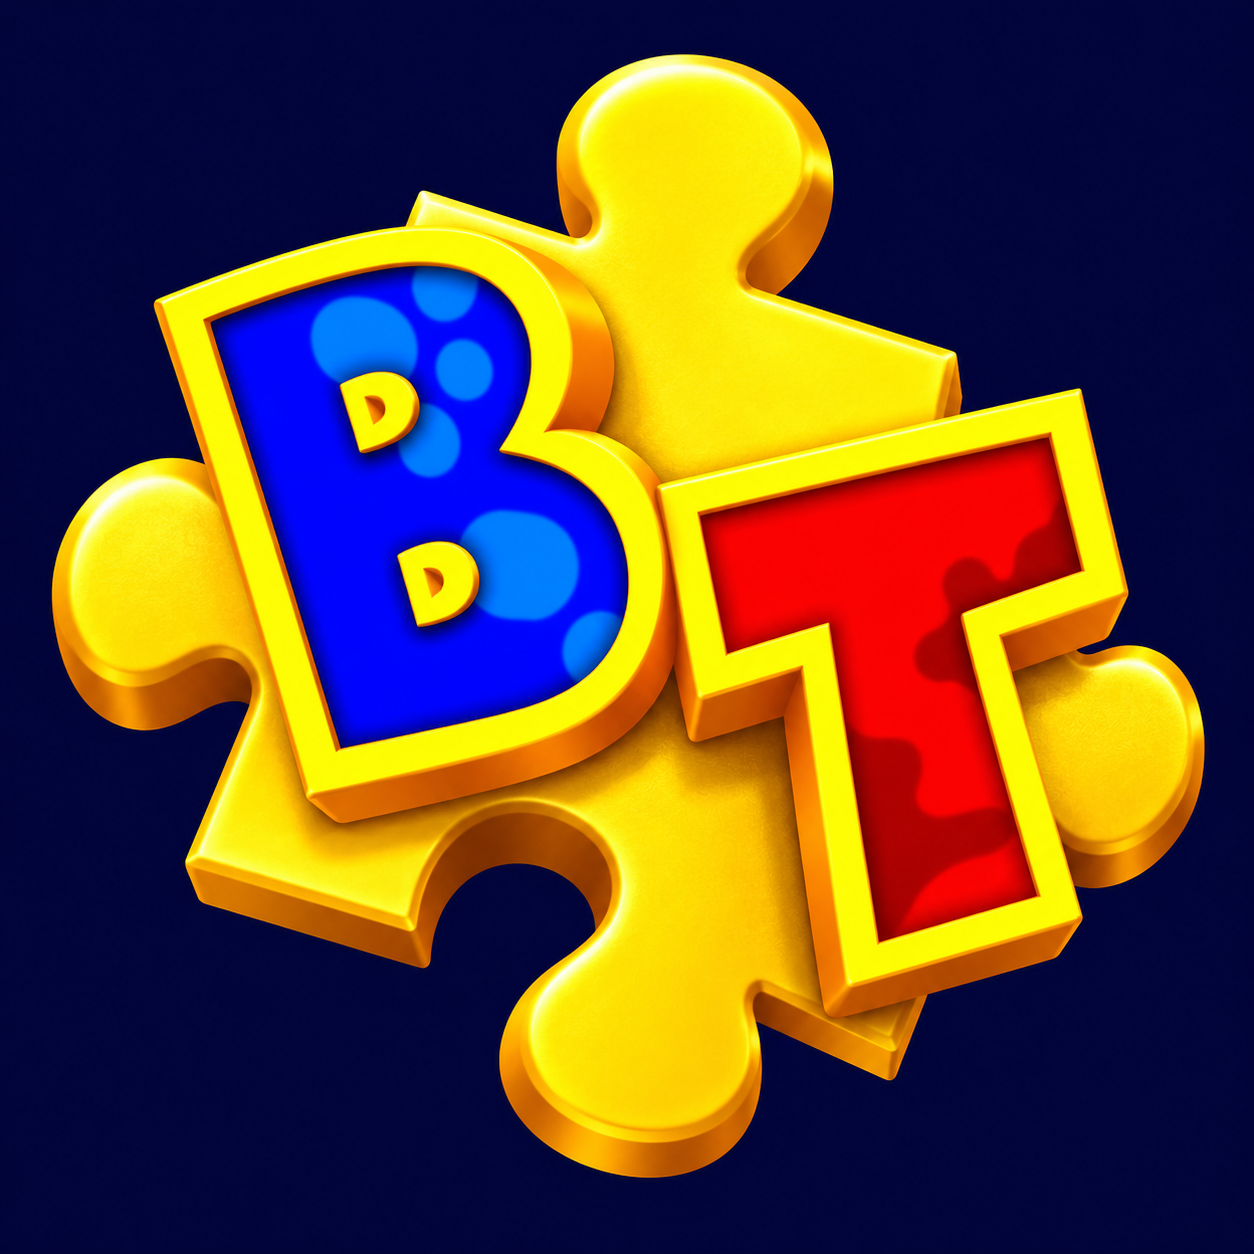
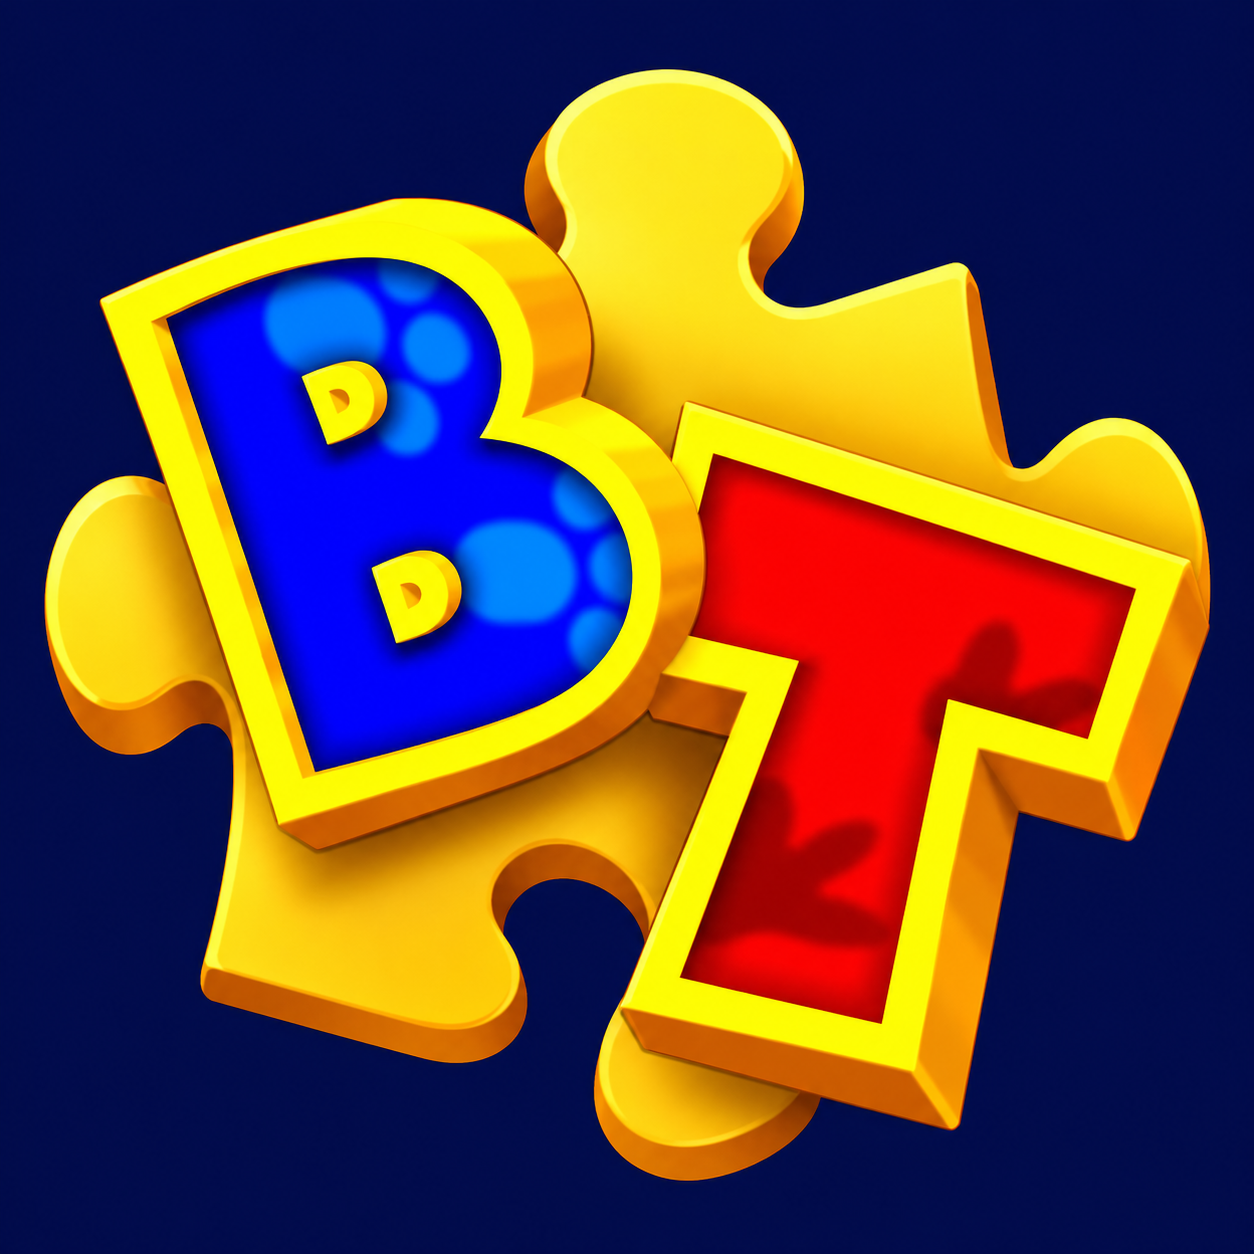
Use the selected round BT artwork and Tooie Recompiled name
Replace the Android icon master with the exact user-supplied reference (SHA-256 4b6db92f4ad3280c10131b5cec745508b19257a93ab1b2615279813ebca06784), regenerate the fifteen legacy/round/foreground PNGs and preview, and display Tooie Recompiled without a hyphen. Keep the circular masks, adaptive XML, Android package/activity and accepted TOOIE menu artwork.

Only twenty Android branding, generator and documentation files differ from the verified player-hierarchy/mod integration. Native game sources, mod support and build policies are unchanged; the existing native libraries can be reused for packaging.

diff --git a/tools/generate_android_launcher_icons.py b/tools/generate_android_launcher_icons.py
@@ -96,7 +96,7 @@ def preview(source, path):
         icon.putalpha(mask(size, "circle"))
         sheet.paste(icon, (x + (140 - size) // 2, 22 + (140 - size) // 2), icon)
         draw.text((x + 70, 182), label, fill=BACKGROUND, font=font, anchor="mm")
-    draw.text((270, 206), "Tooie-Recompiled", fill=BACKGROUND, font=font, anchor="mm")
+    draw.text((270, 206), "Tooie Recompiled", fill=BACKGROUND, font=font, anchor="mm")
     path.parent.mkdir(parents=True, exist_ok=True)
     sheet.save(path)
 

diff --git a/docs/android-launcher-icon.md b/docs/android-launcher-icon.md
@@ -1,25 +1,27 @@
-# Tooie-Recompiled Android icon
+# Tooie Recompiled Android icon
 
 The selected icon is the custom blue **B** and red **T**, slightly staggered
 over a golden Jiggy. The user's final shape choice is **round**, and the visible
-app name is exactly **Tooie-Recompiled**.
+app name is exactly **Tooie Recompiled**.
 
 ![Selected circular icon and small-size previews](android-launcher-icon-preview.png)
 
 ## Source and scope
 
-- This update follows branding commit
-  `05aca40d5f98891b442f20c6418fe6196e0c8f4e`, whose rendering base is
-  `5db2d7f3719df6d196bf46a7a52a5e749d152956`.
+- This icon-only correction is based on integration commit
+  `6a5a1e3250ca57f8797fc68e5567f9a5530e8351`, which includes the tested
+  mod support and the player hierarchy implementation. Only the Android
+  master, derived PNG resources, preview and this document change.
 - `assets/android/launcher-master.png` is the exact selected generated artwork,
   1254 by 1254 pixels. SHA-256:
[1 lines of base64/hex data omitted]
-  It was selected as “Classic Jiggy” from the three BT previews. No characters
-  or extra words are added to the icon.
[1 lines of base64/hex data omitted]
+  This is the exact reference supplied by the user on 18 October 2026,
+  replacing the earlier, similar BT design. No characters or extra words
+  are added to the icon.
 - The source master retains its original navy background. Resource generation
   resizes and pads it without redrawing the letters or Jiggy.
 - The application and launcher activity both use `@string/app_name`, defined
-  once as `Tooie-Recompiled`.
+  once as `Tooie Recompiled`.
 - Package identity remains `io.github.banjotooierecompiled`, preserving update
   identity and app data. Native code, activity class, build settings, saves,
   rendering diagnostics and the original desktop `assets/icon.png` are unchanged.
@@ -67,7 +69,7 @@ do not cause a mismatch. Validation uses Pillow 12.3.0 and Google AAPT2
 - AAPT2 compiles the actual resource directory and links the actual manifest,
   with the application's package supplied as Gradle does, minimum API 24 and
   target API 35. Both application and launcher activity resolve to the exact
-  label `Tooie-Recompiled`.
+  label `Tooie Recompiled`.
 - The linked manifest resolves both icon IDs, and adaptive foreground/background
   references resolve. Packaged PNGs preserve dimensions, alpha and visible pixels.
 - A deliberately missing icon fails the actual linker; a separate wrong-name
